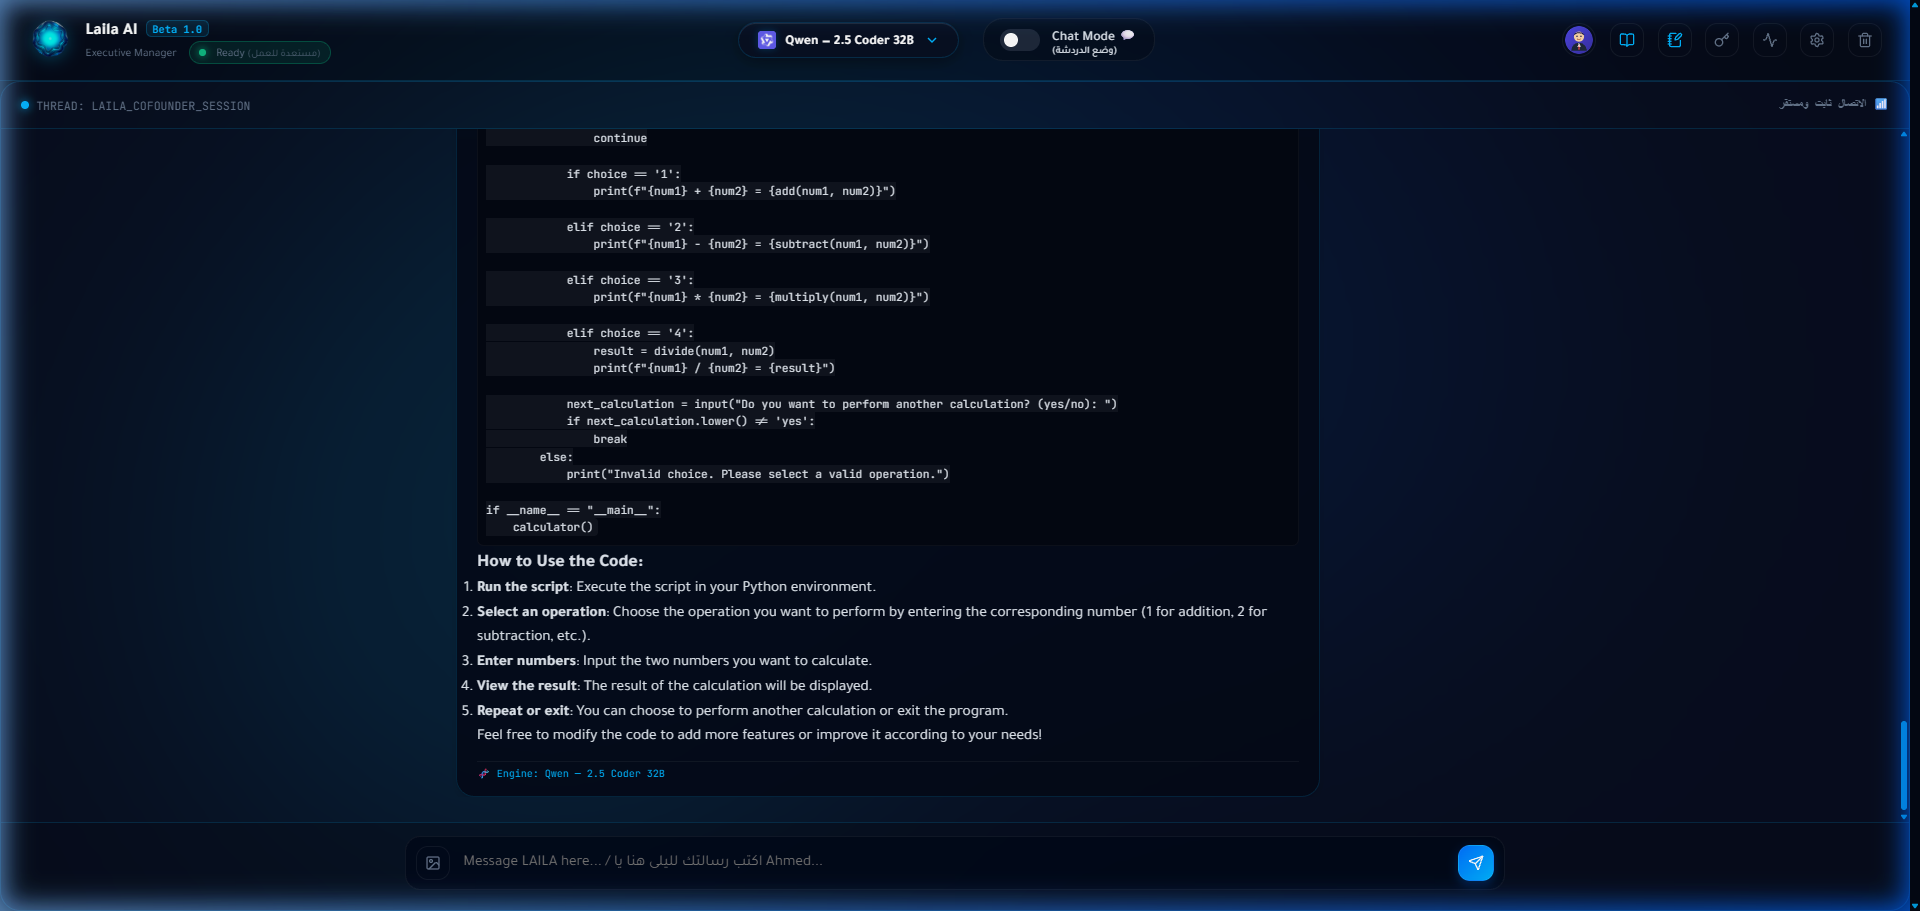
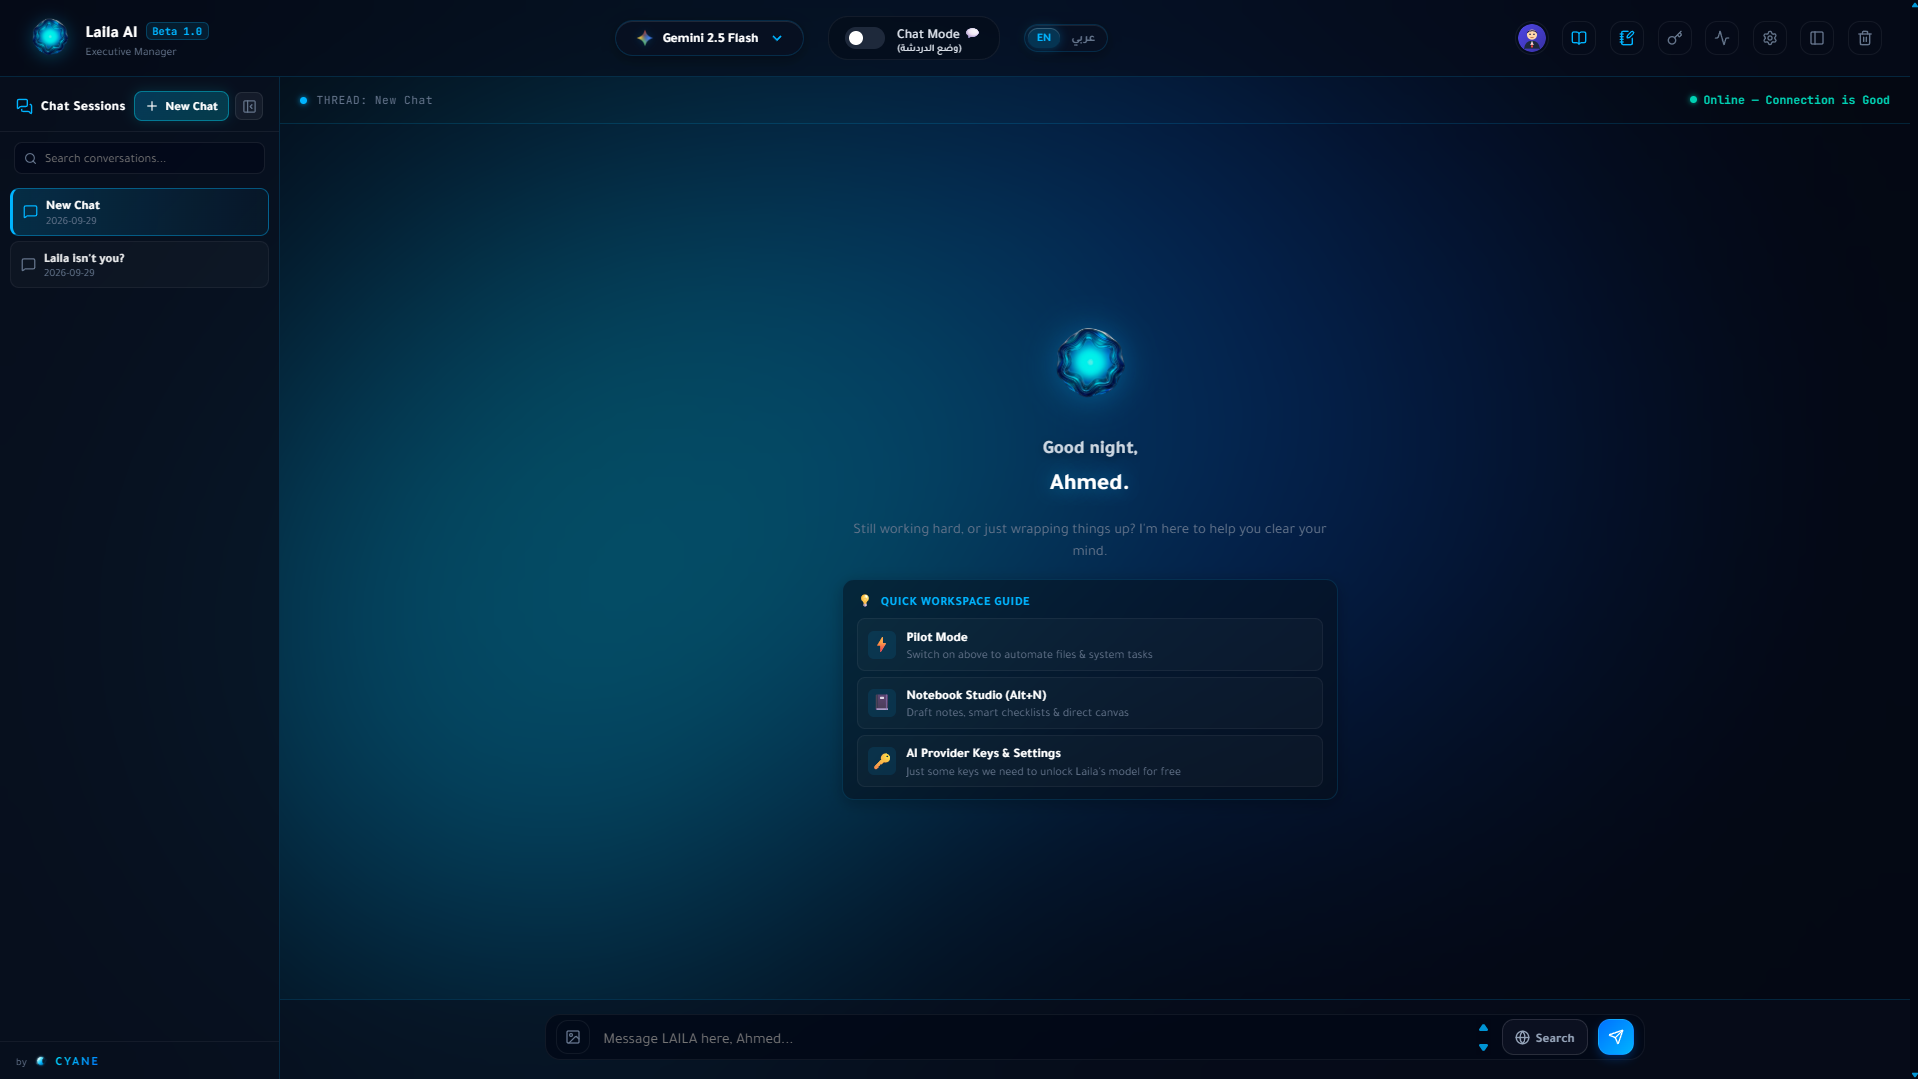
docs: update workstation screenshots and showcase gallery (chat sessions, AI pilot mode, models matrix, semantic memory)

diff --git a/README.md b/README.md
@@ -7,9 +7,9 @@
   [![Release](https://img.shields.io/badge/RELEASE-v1.0.0--BETA%20%7C%20DOWNLOAD%20PORTABLE-00F5A0?style=for-the-badge&logo=github&logoColor=black)](https://github.com/AhmedContainAssem/LAILA-AI/releases/tag/v1.0.0-beta)
   [![Platform](https://img.shields.io/badge/PLATFORM-WINDOWS%20OS%20%7C%20STANDALONE-00B4FF?style=for-the-badge&logo=windows&logoColor=white)](https://github.com/AhmedContainAssem/LAILA-AI/releases/tag/v1.0.0-beta)
   [![Stack](https://img.shields.io/badge/STACK-PYTHON%20%7C%20FLASK%20%7C%20WEBVIEW2-FF007A?style=for-the-badge&logo=python&logoColor=white)](Documents/Engineering-Overview.md)
-  [![Inference](https://img.shields.io/badge/INFERENCE-LOCAL%20GEMMA%203%20%2B%20DEEPSEEK%20%2B%20QWEN-00F5A0?style=for-the-badge&logo=google&logoColor=black)](Documents/Architecture-Overview.md)
+  [![Inference](https://img.shields.io/badge/INFERENCE-LOCAL%20GEMMA%204%20E2B%20%2B%20DEEPSEEK%20%2B%20QWEN-00F5A0?style=for-the-badge&logo=google&logoColor=black)](Documents/Architecture-Overview.md)
   [![Architecture](https://img.shields.io/badge/ARCHITECTURE-DUAL--STAGE%20DECOUPLED-7928CA?style=for-the-badge&logo=flask&logoColor=white)](Documents/Architecture-Overview.md)
-  [![Author](https://img.shields.io/badge/AUTHOR-ENG.%20AHMED%20ASSEM-0077B6?style=for-the-badge&logo=github&logoColor=white)](https://www.linkedin.com/in/ahmed-assem-874bb4400/)
+  [![Founder & Lead Architect](https://img.shields.io/badge/FOUNDER%20%26%20LEAD%20ARCHITECT-ENG.%20AHMED%20ASSEM-0077B6?style=for-the-badge&logo=github&logoColor=white)](https://www.linkedin.com/in/ahmed-assem-874bb4400/)
 
   <br/><br/>
 
@@ -41,6 +41,11 @@
 
   <br/><br/>
 
+  <!-- Core Cognitive & Architectural Advantages -->
+  <img src="docs/diagrams/core-advantages-card.svg" alt="Core Cognitive & Architectural Advantages" width="100%" />
+
+  <br/><br/>
+
   <!-- Production Screenshots Gallery -->
   <img src="docs/diagrams/gallery-header.svg" alt="Live Workstation Gallery" width="100%" />
 
@@ -51,13 +56,13 @@
   <br/><br/>
 
   <!-- 1. Main Conversational Workspace -->
-  <p align="left"><b>💬 01. Conversational Intelligence & Real-Time Code Synthesis</b></p>
-  <img src="docs/screenshots/conversational-workspace.png" alt="Conversational Workspace" width="100%" style="border-radius: 12px; border: 1.5px solid #1E293B;" />
+  <p align="left"><b>💬 01. Conversational Intelligence & Isolated Multi-Session Workspace</b></p>
+  <img src="docs/screenshots/conversational-workspace.png" alt="Conversational Workspace with Sessions Sidebar" width="100%" style="border-radius: 12px; border: 1.5px solid #1E293B;" />
 
   <br/><br/>
 
   <!-- 2. Frontier Model Selection Matrix -->
-  <p align="left"><b>🧠 02. Frontier Multi-Model Matrix (DeepSeek R1/V3, Qwen 2.5 Coder, Gemma 3, Groq)</b></p>
+  <p align="left"><b>🧠 02. Frontier Multi-Model Matrix (DeepSeek R1/V3, Qwen 2.5 Coder, Gemma 4 E2B, Groq, Gemini 2.5)</b></p>
   <img src="docs/screenshots/model-selection-matrix.png" alt="Multi-Provider Switcher" width="100%" style="border-radius: 12px; border: 1.5px solid #1E293B;" />
 
   <br/><br/>
@@ -66,11 +71,11 @@
   <table width="100%">
     <tr>
       <td width="50%" align="center" valign="top">
-        <p align="left"><b>⚡ 03. Pilots Station (Deterministic OS Actuators)</b></p>
+        <p align="left"><b>⚡ 03. Pilots Station (Deterministic OS Actuators • Integrated AI Micro-Engines • <code>Alt + P</code>)</b></p>
         <img src="docs/screenshots/pilots-station-workspace.png" alt="Pilots Station Workspace" width="100%" style="border-radius: 10px; border: 1px solid #1E293B;" />
       </td>
       <td width="50%" align="center" valign="top">
-        <p align="left"><b>📓 04. Executive Notebook Hub (Keep Notes Library)</b></p>
+        <p align="left"><b>📓 04. Executive Notebook Hub (Keep Notes Library • <code>Alt + N</code>)</b></p>
         <img src="docs/screenshots/notebook-studio-workspace.png" alt="Executive Notebook Studio" width="100%" style="border-radius: 10px; border: 1px solid #1E293B;" />
       </td>
     </tr>
@@ -102,8 +107,8 @@
         <img src="docs/screenshots/provider-settings-matrix.png" alt="Provider Settings Matrix" width="100%" style="border-radius: 10px; border: 1px solid #1E293B;" />
       </td>
       <td width="50%" align="center" valign="top">
-        <p align="left"><b>📊 08. Executive Telemetry Dashboard & Memory Ledger</b></p>
-        <img src="docs/screenshots/executive-dashboard.png" alt="Executive Telemetry Dashboard" width="100%" style="border-radius: 10px; border: 1px solid #1E293B;" />
+        <p align="left"><b>🔍 08. Semantic Search & Deep Long-Term Memory (LTM Vector Retrieval)</b></p>
+        <img src="docs/screenshots/memory-semantic-search.png" alt="Semantic Search & Long-Term Memory" width="100%" style="border-radius: 10px; border: 1px solid #1E293B;" />
       </td>
     </tr>
   </table>
@@ -136,11 +141,10 @@
   [🏗 **Architecture Overview**](Documents/Architecture-Overview.md) &nbsp;•&nbsp; 
   [⚙ **Engineering & Benchmarks**](Documents/Engineering-Overview.md)
 
-  [Download](https://github.com/AhmedContainAssem/LAILA-AI/releases/tag/v1.0.0-beta)
-
 
   <br/><br/>
 
-  <sub>Designed &amp; Engineered by <b>Ahmed Assem</b> • Lead AI Architect</sub>
+  <sub>Designed &amp; Engineered by <b>Ahmed Assem</b> • Founder &amp; Lead AI Architect</sub>
 
 </div>
+

diff --git a/RELEASE_NOTES_v1.0.0-beta.md b/RELEASE_NOTES_v1.0.0-beta.md
@@ -1,0 +1,67 @@
+# LAILA AI v1.0.0 Beta — Autonomous Desktop AI Workstation
+
+We are excited to announce the inaugural public release of **LAILA AI (v1.0.0-beta)** — an autonomous local AI workstation and desktop agent designed for local sovereignty, multi-provider intelligence, and deep Windows OS copilot automation.
+
+---
+
+## 🌟 Key Highlights & Architectural Features
+
+### 1. Decoupled Dual-Stage Runtime Architecture
+- **Desktop Shell (`LAILA.exe`)**: Ultra-lightweight native Windows desktop shell powered by PyWebView2, featuring system tray minimization, single-instance mutex guards, and smooth glassmorphism UI.
+- **Backend Service (`laila-backend.exe`)**: High-performance headless API service managing process lifecycles, memory optimization, and cognitive task routing.
+- **Embedded Ollama Engine**: Includes local inference binaries with automated daemon management on port `11434`.
+
+### 2. Multi-Provider Hybrid Intelligence & Circuit Breakers
+- Seamlessly transition between on-device local models and leading cloud frontier models:
+  - **Local Sovereignty**: Ollama (Gemma 4 E2B, Llama 3, DeepSeek, Qwen)
+  - **Frontier Cloud**: Google Gemini 2.0 / 1.5, OpenAI (GPT-4o / GPT-5), Groq Cloud, and OpenRouter
+- **Floating Engine Error Modal**: Complete protection against context and database pollution. Engine limits (e.g. OpenAI HTTP 429 quota exhaustion, Groq rate limits, provider key expiration) are cleanly intercepted into an interactive floating window with 1-click fallback to local offline models.
+
+### 3. Native SystemPilot & DocumentPilot 4-Engine Suite
+- **SystemPilot**: Autonomous Windows automation, process inspection, file system navigation, app launching, and system command orchestration.
+- **DocumentPilot Suite**:
+  - `ImageEngine`: OCR, layout analysis, format conversions, and computer vision.
+  - `PDFEngine`: Document parsing, bidirectional text extraction (full Arabic support), table parsing, and PDF-to-Word conversions.
+  - `OfficeEngine`: Word (`.docx`), Excel (`.xlsx`), and presentation data extraction.
+  - `TextEngine`: Syntax highlighting, code generation, and markdown transformations.
+
+### 4. Multi-Session Isolated Chat & Full Session Continuity
+- **Multi-Session Sidebar**: Isolated session storage per chat thread with live title search and strict context boundaries.
+- **Instant Session Continuity**: Cookie and client synchronization ensuring active session persistence and refresh recovery.
+- **Dynamic Context-Aware Greetings**: Device-time responsive greetings with exact English & Arabic localization and Easter eggs.
+- **Custom Precision UI Cursor**: Custom GPU-composited pinpoint dot with smooth lerp trailing ring and zero idle CPU impact.
+
+### 5. Real-Time Hardware Telemetry Dashboard
+- Dedicated `/dashboard` displaying live system vitals:
+  - **GPU Acceleration**: Dedicated NVIDIA GPU detection (e.g., GeForce GTX series), real-time GPU Load %, and live VRAM gauge.
+  - **CPU & Memory**: Core utilization, active threads, and RAM gauges.
+
+---
+
+## 🚀 Quickstart & Installation
+
+1. **Download Archive**: Download `LAILA-Beta-1.0.zip` from the Assets section below.
+2. **Extract**: Extract the contents to any directory (e.g. `C:\LAILA` or `D:\LAILA`).
+3. **Launch**: Double-click **`LAILA.exe`** to start the application.
+   > **Note**: No Python installation or command-line setup is required. All runtimes, engines, and WebView2 bootstrapper components are self-contained.
+
+---
+
+## 💻 System Requirements
+
+- **Operating System**: Windows 10 (64-bit) or Windows 11 (64-bit)
+- **Processor**: Intel Core i5 / AMD Ryzen 5 or better
+- **System Memory**: 8 GB RAM minimum (16 GB recommended for running 7B+ local models)
+- **Storage**: ~3.5 GB free disk space
+- **Graphics (Optional)**: NVIDIA GPU with CUDA support (for accelerated local model inference)
+
+---
+
+## 🔒 Security & Privacy Notice
+
+LAILA AI runs completely private and offline-first by default. Your chats, database records, and files never leave your machine unless you explicitly configure and select a cloud API provider.
+
+---
+
+**Founder & Lead AI Architect**: [Eng. Ahmed Assem](https://www.linkedin.com/in/ahmed-assem-874bb4400/)
+**Repository & Documentation**: [AhmedContainAssem/LAILA-AI](https://github.com/AhmedContainAssem/LAILA-AI)

diff --git a/Documents/Engineering-Overview.md b/Documents/Engineering-Overview.md
@@ -47,10 +47,10 @@ The dominant pattern for modern desktop software is to wrap web apps in **Electr
 ---
 
 
-### ⚡ Clean Architecture Frontend
+### ⚡ Clean Architecture JavaScript
 * **Zero Compilation Overhead:** Runs natively in the browser without Webpack, Vite, or Babel.
-* **Component Coordinators:** Delegated client-side micro-controllers managing chat rendering, execution trace visualization, user preferences, and real-time streaming state.
-* **Zero Context Pollution:** Execution states in the Pilots Station never contaminate the conversational chat history.
+* **Component Coordinators:** Delegated responsibilities across `chat_renderer.js`, `terminal_trace.js`, `user_profile.js`, `model_selector.js`, `provider_key_gate.js`, `pilots_station.js`, `native_picker.js`, and `notebook_modal.js`.
+* **Zero Context Pollution:** Execution states in the Pilots Station and Keep-Notebook never contaminate the conversational chat history (`chats` table delta remains 0).
 
 ---
 
@@ -63,14 +63,28 @@ The dominant pattern for modern desktop software is to wrap web apps in **Electr
 ## 3. Multi-Provider Resilience & Circuit Breakers
 
 LAILA seamlessly bridges local hardware and cloud intelligence:
-* **Local Baseline:** Offline inference powered by local models (Gemma 3 via embedded Ollama).
+* **Local Baseline:** Offline inference powered by local models (Gemma 4 E2B via embedded Ollama).
 * **Cloud Resilience:** Intelligent routing to OpenRouter (DeepSeek R1/V3, Qwen 2.5 Coder, Gemma 3), Google Gemini (2.5 & 3.5 Flash), or Groq Cloud (Llama 3.3 70B) for frontier reasoning and code generation with zero paywalls.
 * **Automatic Fallback:** If internet connectivity drops or cloud API rate limits are encountered, the system automatically falls back to the local Ollama engine without dropping the user session.
 
 ---
 
+## 4. Native Desktop Integration & Actuators Engine
+
+* **Windows WinForms STA Interop:** Native multi-file and directory pickers (`/api/system/browse_path`) spawned via PowerShell Single-Threaded Apartment (`-STA`) subprocesses, bypassing browser `fakepath` security barriers.
+* **Pluggable Actuators (`core/pilot_toolkit.py`):** Unified `ToolRegistry` managing deterministic actuators (`MergePDFTool`, `SplitPDFTool`, `ConvertDocumentTool`, `ReadDocumentChunkTool`, `ScheduleTaskTool`, `SystemAppTool`).
+* **Auto-Reflow Document Engine:** Migrated to ReportLab Platypus `SimpleDocTemplate` with XML entity escaping, enabling robust document conversions with zero canvas clipping.
+* **System Architecture:** Refer to [Architecture Overview](Architecture-Overview.md) for full runtime pipeline specifications.
+
+
+---
+
 <div align="center">
 
-  <sub>Designed &amp; Engineered by <b>Ahmed Assem</b> • Lead AI Architect</sub>
+  <img src="../docs/diagrams/engineering-vault-card.svg" alt="The Engineering Vault & Incident Post-Mortems" width="100%" />
+
+  <br/><br/>
+
+  <sub>Designed &amp; Engineered by <b>Ahmed Assem</b> • Founder &amp; Lead AI Architect</sub>
 
 </div>

diff --git a/Documents/Architecture-Overview.md b/Documents/Architecture-Overview.md
@@ -87,12 +87,39 @@ LAILA rejects unstructured, infinitely growing raw text histories. The memory ar
 
 ---
 
+## 5. Executive Floating Modals (Pilot Studio & Keep-Notebook)
+
+LAILA completely eliminates in-page DOM churn and view-switching latency by hosting mission-critical productivity environments in **Floating Glassmorphic Windows**:
+
+* **Executive Keep-Notebook (`Alt + N`):** Persistent personal knowledge vault backed by an isolated `notebook_notes` SQLite table. Features autonomous AI drafting, interactive Markdown checklists, 6-color glass palettes, and multi-format document exporting (PDF/DOCX/MD/CSV) without touching conversational memory.
+* **Executive Pilot Studio (`Alt + P`):** High-speed OS actuator station with a Split-Pane interface. The left pane provides drag-and-drop file staging, native Windows WinForms STA file/folder pickers, and native Windows Explorer file reveals. The right pane provides non-destructive intent preflight previews, multi-model sync, and real-time multithreaded SSE execution streaming.
+
+---
+
+## 6. Multi-Session Sidebar & Google ADK Vector Memory Bank (LTM)
+
+LAILA isolates chat sessions while preserving unified user intelligence through a decoupled memory pipeline:
+* **Strict Session Boundaries:** Each conversation thread is indexed by a dedicated `session_id` in SQLite, ensuring zero prompt history bleed between threads.
+* **Google ADK Vector Memory Bank (`session_memory_vectors`):** Conceptual session summaries are distilled asynchronously and embedded as dense floating-point vectors stored directly in SQLite for sub-millisecond retrieval.
+* **Shared Cognitive Vault (`user_longterm_memory`):** Automatically extracts and clusters recurring user interests, projects, and key facts across all sessions using dense vector cosine similarity.
+* **Zero-Regex Semantic Recall ("Do you remember when...?"):** Autonomous intent anchoring (English & Arabic) queries historical conversation vector embeddings without brittle regexes or context bloat.
+* **Fast Prior Continuity:** New chat sessions automatically pull the summary of the latest preceding session, ensuring natural flow without context amnesia.
+* **Modular Clean Architecture:** Built on strict separation of concerns, ensuring high-throughput local execution, memory safety, and zero context pollution.
+
+---
+
+<div align="center">
+  <img src="../docs/diagrams/core-advantages-card.svg" alt="Dual-Stage Memory & Decoupled Workspaces" width="100%" />
+</div>
+
+---
+
 <div align="center">
 
   <img src="../docs/diagrams/runtime-snapshot.svg" alt="Runtime Architecture Snapshot" width="100%" />
 
   <br/><br/>
 
-  <sub>Designed &amp; Engineered by <b>Ahmed Assem</b> • Lead AI Architect</sub>
+  <sub>Designed &amp; Engineered by <b>Ahmed Assem</b> • Founder &amp; Lead AI Architect</sub>
 
 </div>

diff --git a/Documents/Lailas-Philosophy.md b/Documents/Lailas-Philosophy.md
@@ -82,7 +82,7 @@ Instead of forcing a single language model to simultaneously act as the terminal
 
 ## 4. Fundamental Tenets
 
-* **Local-First Sovereignty:** The platform runs 100% locally with zero required internet connectivity, powered by offline LLMs (Gemma 3 4B via Ollama).
+* **Local-First Sovereignty:** The platform runs 100% locally with zero required internet connectivity, powered by offline LLMs (Gemma 4 E2B via Ollama).
 * **Deterministic Grounding:** Zero tolerance for fake system actions. True autonomy requires verifiable truth.
 * **System Resource Respect:** Zero idle load. Clean thread shutdowns. Efficient memory reclamation.
 * **Radical Observability:** Complete transparency into every cognitive loop, execution path, and resource metric via the live telemetry dashboard.
@@ -96,6 +96,6 @@ Instead of forcing a single language model to simultaneously act as the terminal
 
   <br/><br/>
 
-  <sub>Designed &amp; Engineered by <b>Ahmed Assem</b> • Lead AI Architect</sub>
+  <sub>Designed &amp; Engineered by <b>Ahmed Assem</b> • Founder &amp; Lead AI Architect</sub>
 
 </div>
